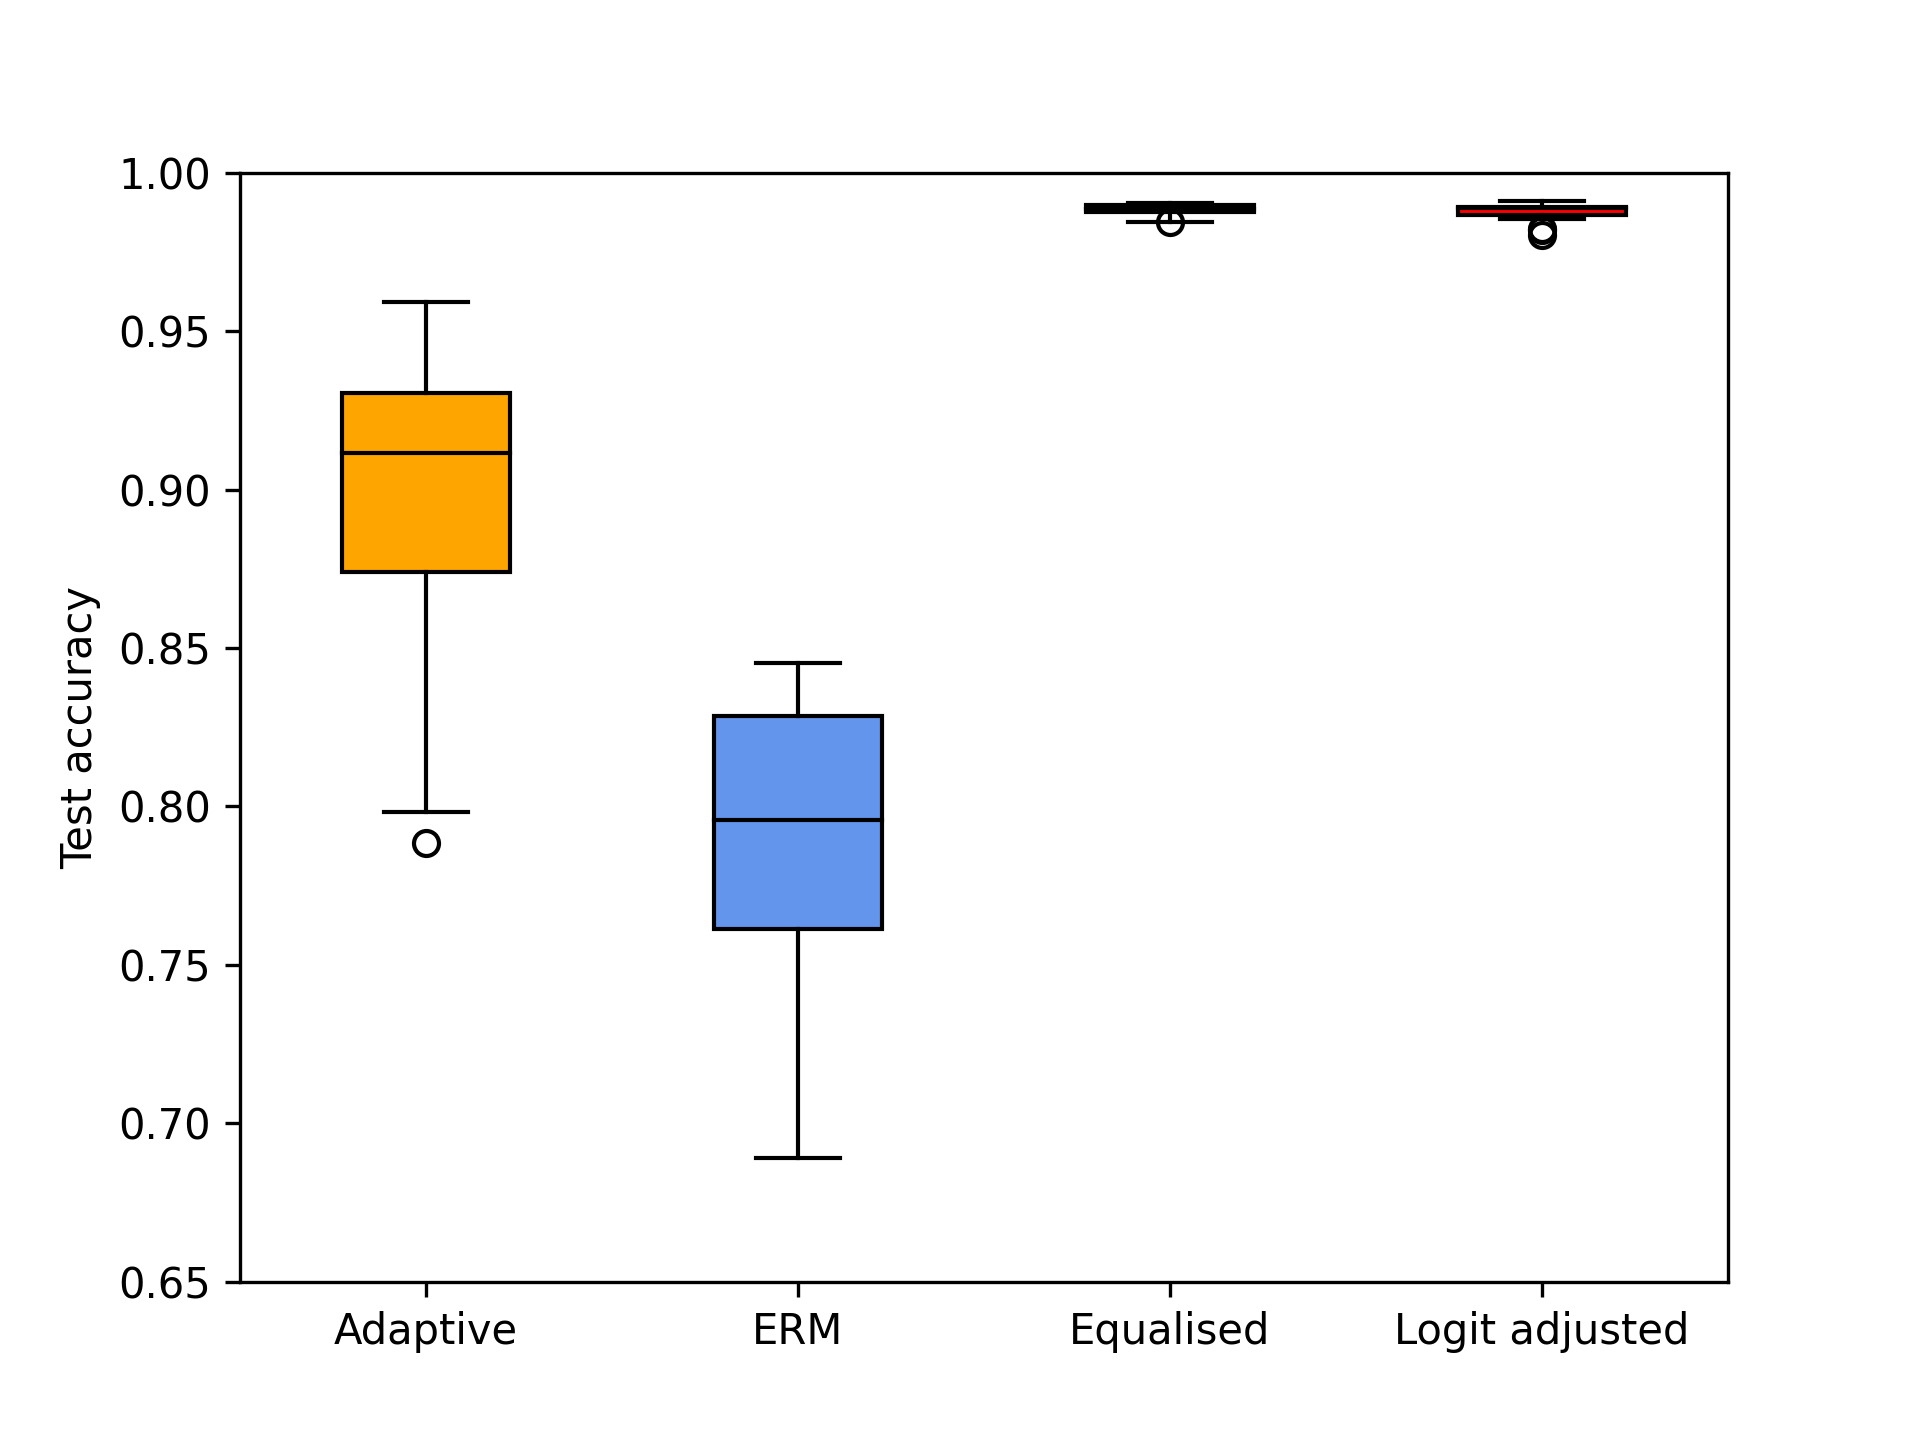
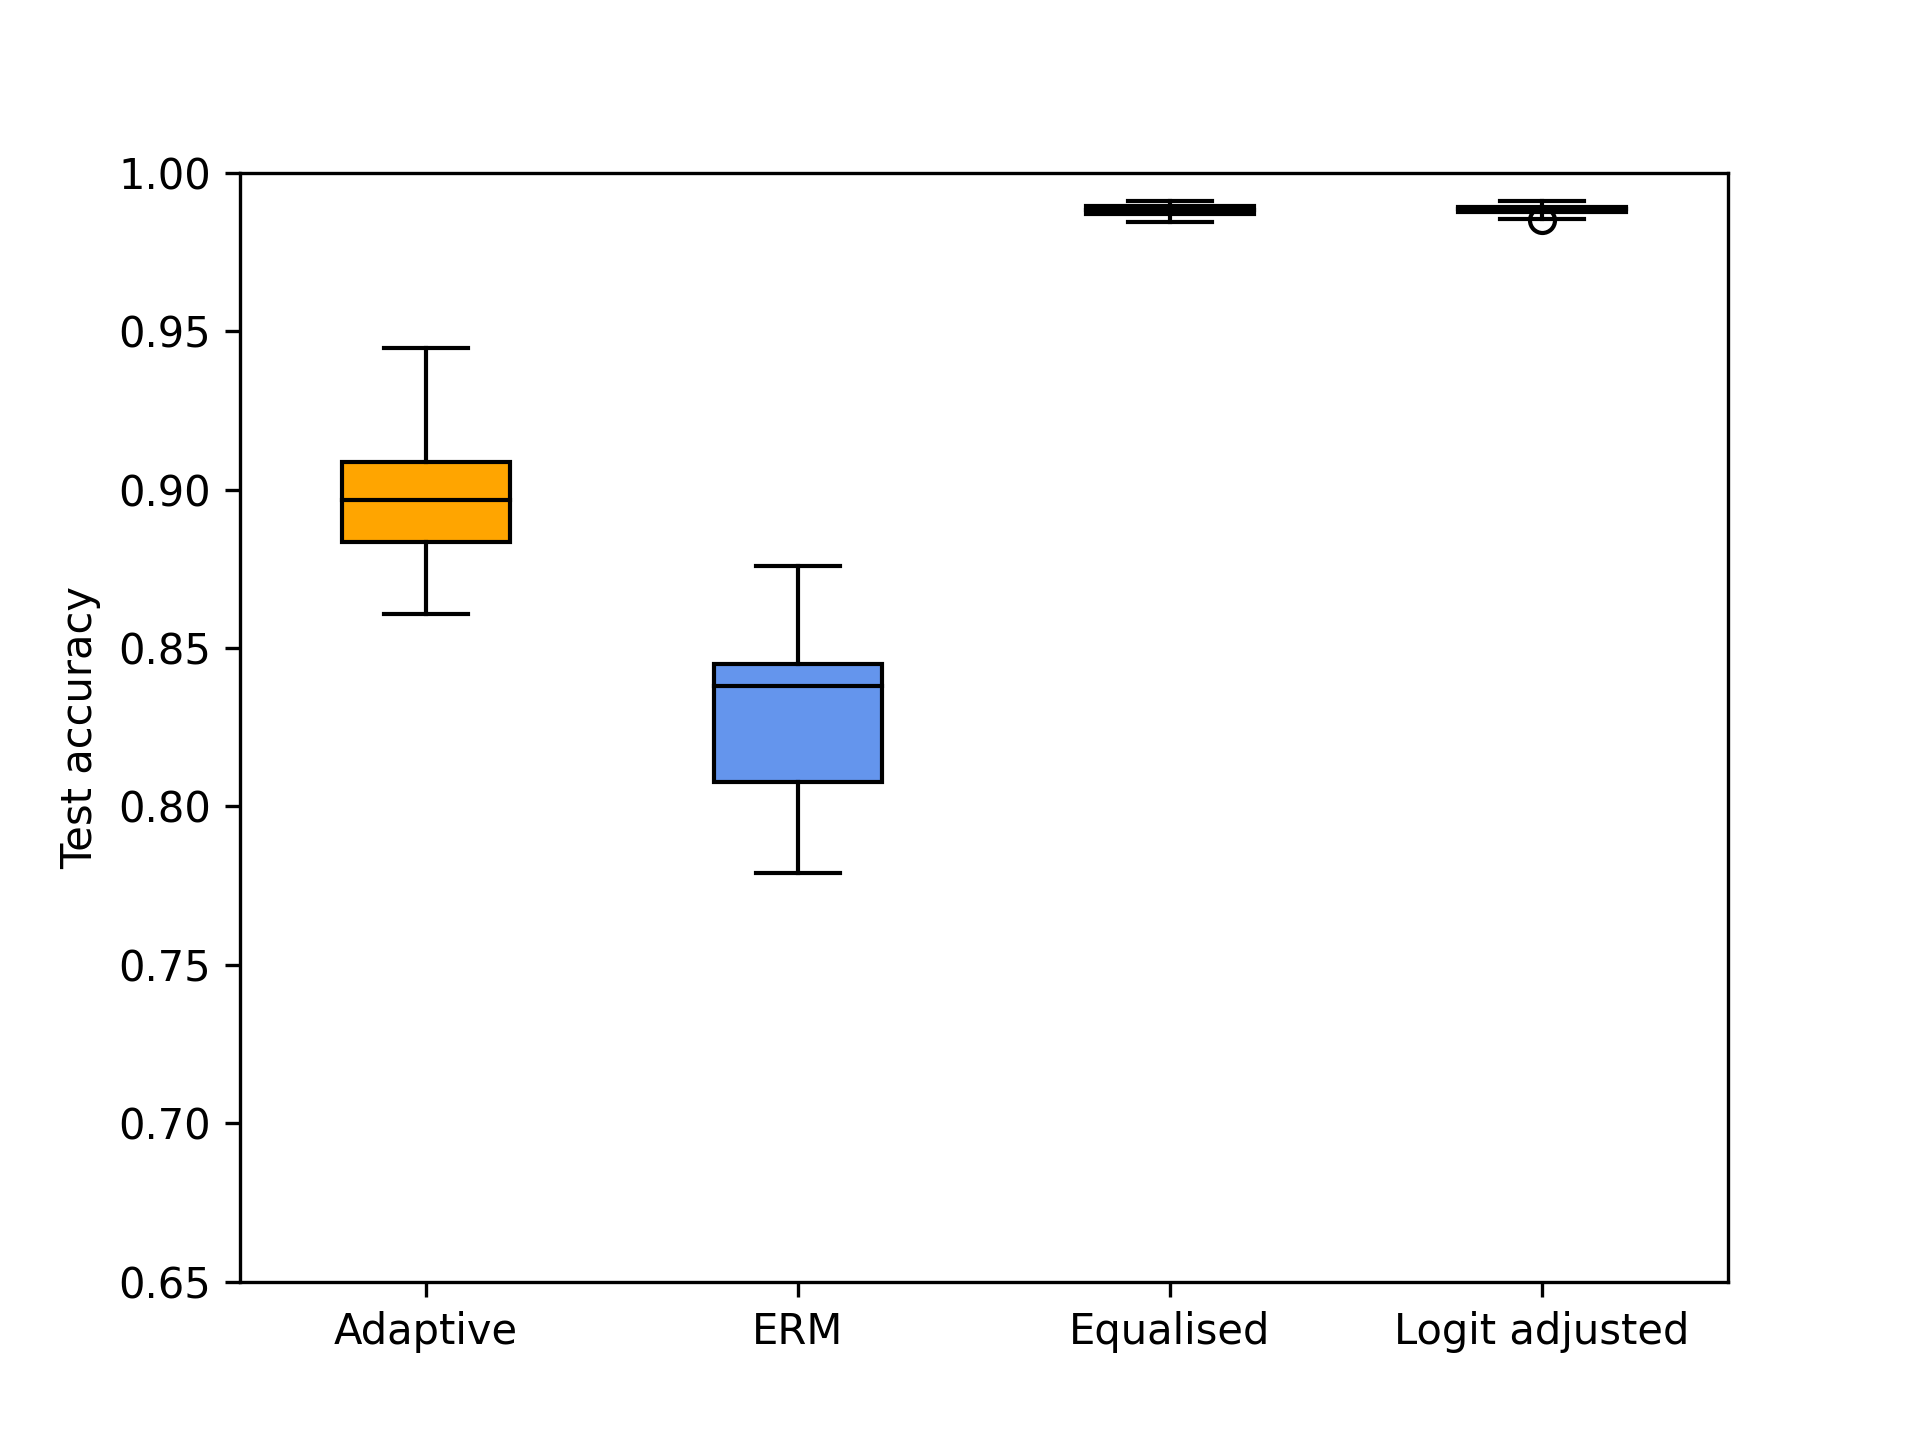
Changing to 1000 epochs for synthExp2

diff --git a/knearest/curse.py b/knearest/curse.py
@@ -1,0 +1,31 @@
+from ast import Lambda
+import numpy as np
+import matplotlib.pyplot as plt
+
+p = np.arange(1,15)
+print(p)
+f1 = lambda x: -np.log(100)/np.log(1-0.1**x)
+f2 = lambda x: -np.log(100)/np.log(1-0.2**x)
+f3 = lambda x: -np.log(100)/np.log(1-0.3**x)
+f4 = lambda x: -np.log(100)/np.log(1-0.4**x)
+
+
+n1 = np.array([f1(xi) for xi in p])
+n2 = np.array([f2(xi) for xi in p])
+n3 = np.array([f3(xi) for xi in p])
+n4 = np.array([f4(xi) for xi in p])
+
+fig, ax = plt.subplots()
+ax.plot(p,n1,color='black')
+ax.text(p[-1]+0.5,n1[-1],'r=0.1')
+ax.plot(p,n2,color='black')
+ax.text(p[-1],n2[-1],'r=0.2')
+ax.plot(p,n3,color='black')
+ax.text(p[-1],n3[-1],'r=0.3')
+ax.plot(p,n4,color='black')
+ax.text(p[-1],n4[-1],'r=0.4')
+ax.set_yscale('log')
+ax.set_xbound([0,17])
+ax.set_xlabel('p, dimensions')
+ax.set_ylabel('minimum n')
+plt.savefig('knearest/curse',dpi=500)

diff --git a/synthExp2/postHocMod.py b/synthExp2/postHocMod.py
@@ -242,7 +242,8 @@ if __name__ == "__main__":
         optimizer = torch.optim.SGD(model.parameters(), lr=learning_rate)
 
 
-        epochs =300
+        #epochs =300
+        epochs=1000
         for t in range(epochs):
             print(f"Epoch {t+1}\n-------------------------------")
             train_loop(train_dataloader, model, loss_fn, optimizer)

diff --git a/synthExp2/lossComparison.py b/synthExp2/lossComparison.py
@@ -144,7 +144,7 @@ if __name__ == "__main__":
 
 
 
-    epochs =300
+    epochs =1000
 
 
     observationsAccuracy = np.zeros((20,4))
